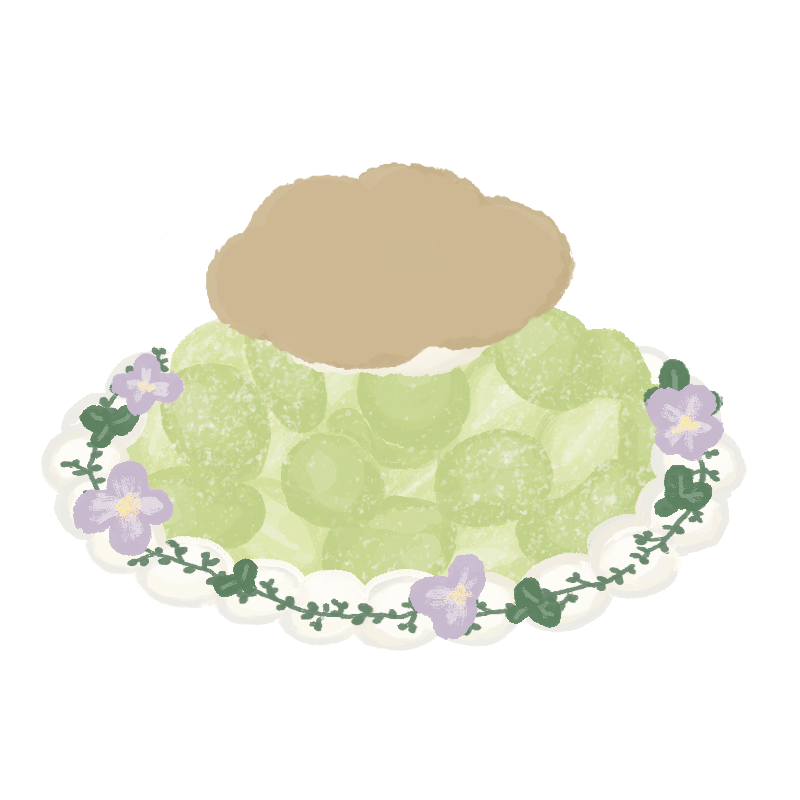
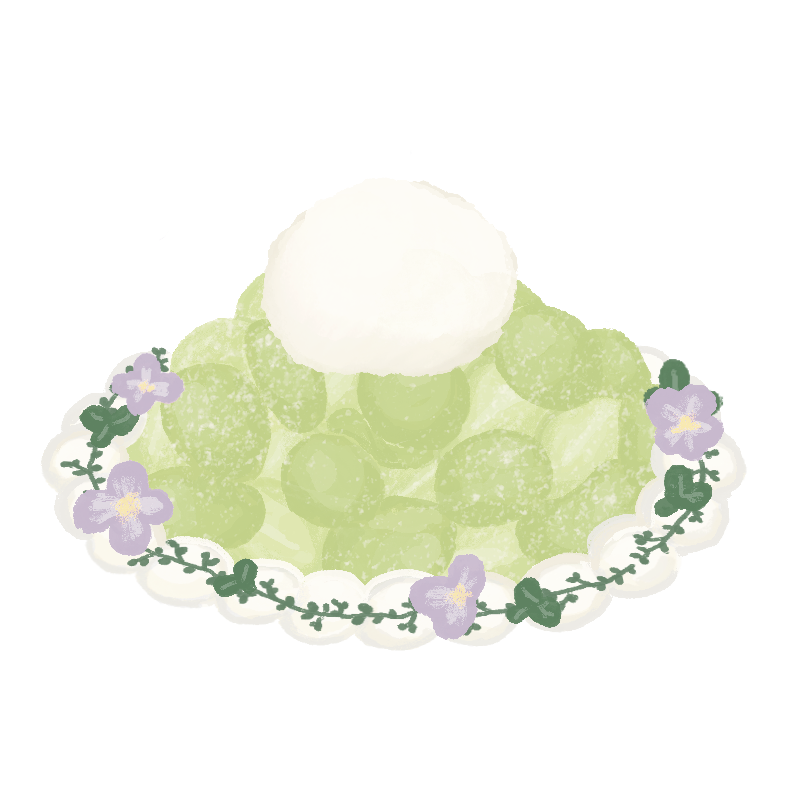
タルトの果物とメッセージプレートを反映

Changed region(s): [[0.25, 0.1875, 0.7188, 0.4688]]

diff --git a/help/start.html b/help/start.html
@@ -22,7 +22,7 @@
 <li>同意のチェックを入れます。</li>
 <li>**「カード登録なしで始める」**を押します。</li>
 </ol>
-<figure><a href="img/signup.png?v=1789736356dcb479" target="_blank" rel="noopener" aria-label="新規登録：お店の情報を入力する画面を拡大"><img src="img/signup.png?v=1789736356dcb479" alt="新規登録：お店の情報を入力する画面" loading="lazy" width="780" height="1688"></a><figcaption>新規登録：お店の情報を入力する画面 · タップで拡大</figcaption></figure>
+<figure><a href="img/signup.png?v=1789736567dcb479" target="_blank" rel="noopener" aria-label="新規登録：お店の情報を入力する画面を拡大"><img src="img/signup.png?v=1789736567dcb479" alt="新規登録：お店の情報を入力する画面" loading="lazy" width="780" height="1688"></a><figcaption>新規登録：お店の情報を入力する画面 · タップで拡大</figcaption></figure>
 <p>💡 店舗IDは予約ページのアドレスの一部です。後から管理画面で変更する機能はありません。</p>
 <h2 id="section-2">2. カード不要のお試しを始める<a class="anchor" href="#section-2" aria-label="この項目へのリンク">#</a></h2>
 <p>登録が完了すると管理画面へ進み、7日間のお試しが始まります。確認メールが届いた場合は、そのリンクから続けてください。</p>
@@ -30,7 +30,7 @@
 <h2 id="section-3">3. 管理画面の開き方を覚える<a class="anchor" href="#section-3" aria-label="この項目へのリンク">#</a></h2>
 <p><a href="../admin/">管理画面</a>をブックマークしておきます。次回からはメールアドレスとパスワードでログインします。</p>
 <p>スマホでメニューが見えない場合は、右上の **「☰」**を押します。</p>
-<figure><a href="img/menu.png?v=1789736356b3192b9032" target="_blank" rel="noopener" aria-label="スマホの管理メニュー：設定・商品・マニュアルへ進めますを拡大"><img src="img/menu.png?v=1789736356b3192b9032" alt="スマホの管理メニュー：設定・商品・マニュアルへ進めます" loading="lazy" width="780" height="1688"></a><figcaption>スマホの管理メニュー：設定・商品・マニュアルへ進めます · タップで拡大</figcaption></figure>
+<figure><a href="img/menu.png?v=1789736567b3192b9032" target="_blank" rel="noopener" aria-label="スマホの管理メニュー：設定・商品・マニュアルへ進めますを拡大"><img src="img/menu.png?v=1789736567b3192b9032" alt="スマホの管理メニュー：設定・商品・マニュアルへ進めます" loading="lazy" width="780" height="1688"></a><figcaption>スマホの管理メニュー：設定・商品・マニュアルへ進めます · タップで拡大</figcaption></figure>
 <h2 id="section-4">4. 予約を受けるルールを設定する<a class="anchor" href="#section-4" aria-label="この項目へのリンク">#</a></h2>
 <ol>
 <li>メニューの **「設定」**を開きます。</li>
@@ -48,7 +48,7 @@
 <li>「1時間ごと」など、時間の間隔を選びます。</li>
 <li>**「まとめて追加」**を押します。</li>
 </ol>
-<figure><a href="img/slots.png?v=1789736356f0519151" target="_blank" rel="noopener" aria-label="受取時間：時間の範囲を決めて枠を追加するを拡大"><img src="img/slots.png?v=1789736356f0519151" alt="受取時間：時間の範囲を決めて枠を追加する" loading="lazy" width="780" height="1688"></a><figcaption>受取時間：時間の範囲を決めて枠を追加する · タップで拡大</figcaption></figure>
+<figure><a href="img/slots.png?v=1789736567f0519151" target="_blank" rel="noopener" aria-label="受取時間：時間の範囲を決めて枠を追加するを拡大"><img src="img/slots.png?v=1789736567f0519151" alt="受取時間：時間の範囲を決めて枠を追加する" loading="lazy" width="780" height="1688"></a><figcaption>受取時間：時間の範囲を決めて枠を追加する · タップで拡大</figcaption></figure>
 <ol start="12">
 <li>**「お客様への案内とセルフ操作」**に、お店のキャンセルポリシーと特定商取引法に基づく表記を入れます。</li>
 <li>お客様ご自身での変更・キャンセルを使う場合は **「有効にする」**にチェックを入れます。</li>

diff --git a/help/products.html b/help/products.html
@@ -50,7 +50,7 @@
 <li><strong>この商品だけ受け付けない日</strong>：この商品だけ特定の日を休みたいときに日付を追加します。</li>
 </ul>
 <p>💡 定休日にクリスマス営業をしたい（12/24が定休日でも受け取れるようにしたい）場合は、設定ページの「臨時休業・臨時営業」で <strong>「定休日だけど営業」</strong> の日を登録してください（お店全体に効きます）。</p>
-<figure><a href="img/season.png?v=1789736356a0369fcec46" target="_blank" rel="noopener" aria-label="季節商品：受付期間と受取期間を分けて設定しますを拡大"><img src="img/season.png?v=1789736356a0369fcec46" alt="季節商品：受付期間と受取期間を分けて設定します" loading="lazy" width="780" height="1688"></a><figcaption>季節商品：受付期間と受取期間を分けて設定します · タップで拡大</figcaption></figure>
+<figure><a href="img/season.png?v=1789736567a0369fcec46" target="_blank" rel="noopener" aria-label="季節商品：受付期間と受取期間を分けて設定しますを拡大"><img src="img/season.png?v=1789736567a0369fcec46" alt="季節商品：受付期間と受取期間を分けて設定します" loading="lazy" width="780" height="1688"></a><figcaption>季節商品：受付期間と受取期間を分けて設定します · タップで拡大</figcaption></figure>
 <h2 id="section-5">サイズと価格<a class="anchor" href="#section-5" aria-label="この項目へのリンク">#</a></h2>
 <ol>
 <li>サイズ名（例：12cm、4号）と価格（税込）を入れて <strong>「追加」</strong> を押します。</li>
@@ -110,7 +110,7 @@
 <li>必要なら <strong>「必須にする」</strong> にチェックを入れます。</li>
 <li>補足（質問の下に小さく出る一言）は任意です。</li>
 </ol>
-<figure><a href="img/questions.png?v=1789736356e2362629e" target="_blank" rel="noopener" aria-label="共通の質問：質問文と回答のしかたを設定しますを拡大"><img src="img/questions.png?v=1789736356e2362629e" alt="共通の質問：質問文と回答のしかたを設定します" loading="lazy" width="780" height="1688"></a><figcaption>共通の質問：質問文と回答のしかたを設定します · タップで拡大</figcaption></figure>
+<figure><a href="img/questions.png?v=1789736567e2362629e" target="_blank" rel="noopener" aria-label="共通の質問：質問文と回答のしかたを設定しますを拡大"><img src="img/questions.png?v=1789736567e2362629e" alt="共通の質問：質問文と回答のしかたを設定します" loading="lazy" width="780" height="1688"></a><figcaption>共通の質問：質問文と回答のしかたを設定します · タップで拡大</figcaption></figure>
 <h3>見本の画像</h3>
 <p>質問の下に<strong>見本の画像を1枚</strong>出せます（任意）。**「見本の画像」→「写真を選ぶ」**でアップするだけです。</p>
 <ul>

diff --git a/help/faq.html b/help/faq.html
@@ -66,7 +66,7 @@
 <li>メールアプリ側で送信します。</li>
 </ol>
 <p><strong>「依頼内容を確認する」を押しただけでは送信されません。</strong> メールアプリが開かない場合は「本文をコピー」でコピーし、<a href="mailto:info@oyatsupokke.com">info@oyatsupokke.com</a>へ送信してください。ログインできない場合も、このアドレスからお問い合わせできます。</p>
-<figure><a href="img/support.png?v=1789736356c02707868" target="_blank" rel="noopener" aria-label="サポート：通常のお問い合わせ・不具合報告を選ぶを拡大"><img src="img/support.png?v=1789736356c02707868" alt="サポート：通常のお問い合わせ・不具合報告を選ぶ" loading="lazy" width="780" height="1688"></a><figcaption>サポート：通常のお問い合わせ・不具合報告を選ぶ · タップで拡大</figcaption></figure>
+<figure><a href="img/support.png?v=1789736567c02707868" target="_blank" rel="noopener" aria-label="サポート：通常のお問い合わせ・不具合報告を選ぶを拡大"><img src="img/support.png?v=1789736567c02707868" alt="サポート：通常のお問い合わせ・不具合報告を選ぶ" loading="lazy" width="780" height="1688"></a><figcaption>サポート：通常のお問い合わせ・不具合報告を選ぶ · タップで拡大</figcaption></figure>
 <p>画面写真を添える場合は、パスワードやお客様の名前・連絡先を隠してください。通常のお問い合わせの送信に料金はかかりません。有料の設定サポート・代行とは別に選べます。</p>
 </article><footer class="article-footer"><a href="index.html">目次へ戻る</a><a href="faq.html">困ったとき</a><a href="#content">ページの上へ ↑</a></footer></main>
 <aside class="on-this-page"><p>このページの内容</p><nav aria-label="このページの内容"><a href="#section-1">予約ページについて</a><a href="#section-2">メールについて</a><a href="#section-3">予約の操作について</a><a href="#section-4">ログインについて</a><a href="#section-5">印刷について</a><a href="#section-6">料金・解約について</a><a href="#section-7">解決しないとき</a></nav></aside></div><footer class="site-footer">画面写真はサンプル店舗の操作例です。<br><a href="../admin/index.html?tab=support">お問い合わせ</a> · <a href="../terms.html">利用規約</a> · <a href="../privacy.html">プライバシーポリシー</a></footer></body></html>

diff --git a/app.js b/app.js
@@ -578,7 +578,7 @@ const cakeLayerAsset = (name) => new URL(`assets/cake-layers/${name}`, location.
 // oyatsupokkeのタルト・バスクは、商品土台とは別に通常の果物レイヤーが常に付く。
 // 他店舗の商品名が同じでも混ざらないよう、店舗キーpokkeだけに限定する。
 const OYATSU_PRODUCT_EXTRA_LAYERS = {
-  // タルトの果物はプレート別版を受領後に追加する（2026-09-18 まりほ指示）。
+  "フルーツタルト": [{ file: "tart-fruit-muscat.png", z: 35 }],
   "バスクチーズケーキ": [{ file: "basque-fruit-muscat.png", z: 35 }],
 };
 const DEFAULT_PASTEL = { hue: 340, softness: 0 };
@@ -912,8 +912,10 @@ function currentLayers() {
       for (const o of selectedInGroup) {
         const name=optName(o);
         // サイド寄せの果物には1周ハーブではなく、同じ片側へ寄せた専用レイヤーを使う。
-        const layerUrl=CONFIG.shop==="pokke" && selectedNames.has("フルーツサイド寄せ") && HERB_TOPPING_NAMES.has(name)
-          ? cakeLayerAsset("fruit-side-herb.png") : o.layer_url;
+        const layerUrl=CONFIG.shop==="pokke" && p.name==="フルーツタルト" && name==="クッキープレート"
+          ? cakeLayerAsset("tart-message-plate.png")
+          :CONFIG.shop==="pokke" && selectedNames.has("フルーツサイド寄せ") && HERB_TOPPING_NAMES.has(name)
+            ? cakeLayerAsset("fruit-side-herb.png") : o.layer_url;
         if (layerUrl) {
           if(dogNumberCombo && name==="わんこホイップ絞り")continue;
           // カレンダーケーキのクッキープレートは別添え。注文には残し、ケーキ上には描かない。

diff --git a/help/customer.html b/help/customer.html
@@ -17,7 +17,7 @@
 <li><strong>お客様情報</strong> — 名前・フリガナ・電話・メール（ご住所を「表示する」にしているお店では、郵便番号を入れると住所が自動で入ります）</li>
 </ol>
 <p>最後に <strong>「入力内容を確認する」</strong> → 確認画面（キャンセルポリシーもここに表示）→ <strong>「この内容で注文する」</strong> で予約完了です。</p>
-<figure><a href="img/form.png?v=1789736356e01ca6ca1c" target="_blank" rel="noopener" aria-label="お客様の予約ページを拡大"><img src="img/form.png?v=1789736356e01ca6ca1c" alt="お客様の予約ページ" loading="lazy" width="780" height="1688"></a><figcaption>お客様の予約ページ · タップで拡大</figcaption></figure>
+<figure><a href="img/form.png?v=1789736567e01ca6ca1c" target="_blank" rel="noopener" aria-label="お客様の予約ページを拡大"><img src="img/form.png?v=1789736567e01ca6ca1c" alt="お客様の予約ページ" loading="lazy" width="780" height="1688"></a><figcaption>お客様の予約ページ · タップで拡大</figcaption></figure>
 <p>💡 入力の途中でページを閉じても、同じ端末・同じSafariやChromeでは、保存された入力内容から再開できます。添付画像は再選択が必要になる場合があります。共有端末では他の人の入力内容が残っていないか確認してください。</p>
 <h2 id="section-2">確認メール<a class="anchor" href="#section-2" aria-label="この項目へのリンク">#</a></h2>
 <p>予約が完了すると、お客様に自動で確認メールが届きます。</p>

diff --git a/help/overview.html b/help/overview.html
@@ -8,7 +8,7 @@
 <ol>
 <li>ケーキを選ぶ → 2. サイズを選ぶ → 3. カスタマイズ（フルーツなど） → 4. 受取日を選ぶ → 5. ご記入欄 → 6. お客様情報 → 内容の確認 → 注文</li>
 </ol>
-<figure><a href="img/form.png?v=1789736356e01ca6ca1c" target="_blank" rel="noopener" aria-label="お客様の予約ページ：商品・サイズを選びますを拡大"><img src="img/form.png?v=1789736356e01ca6ca1c" alt="お客様の予約ページ：商品・サイズを選びます" loading="lazy" width="780" height="1688"></a><figcaption>お客様の予約ページ：商品・サイズを選びます · タップで拡大</figcaption></figure>
+<figure><a href="img/form.png?v=1789736567e01ca6ca1c" target="_blank" rel="noopener" aria-label="お客様の予約ページ：商品・サイズを選びますを拡大"><img src="img/form.png?v=1789736567e01ca6ca1c" alt="お客様の予約ページ：商品・サイズを選びます" loading="lazy" width="780" height="1688"></a><figcaption>お客様の予約ページ：商品・サイズを選びます · タップで拡大</figcaption></figure>
 <ul>
 <li>受取日のカレンダーでは、<strong>予約できる日だけ</strong>を選べます（定休日・締切を過ぎた日・満枠の日は自動で選べなくなります）</li>
 <li>注文するとお客様に<strong>確認メール</strong>が自動で届きます。メールの専用リンクから、お客様がご自身で変更・キャンセルもできます（期限はお店が決められます。<a href="customer.html">第5章</a>）</li>

diff --git a/admin/index.html b/admin/index.html
@@ -4,10 +4,10 @@
 <meta charset="UTF-8">
 <meta name="viewport" content="width=device-width, initial-scale=1.0">
 <title>管理画面｜オーダーケーキ予約</title>
-<link rel="stylesheet" href="../styles.css?v=1789736356">
-<link rel="stylesheet" href="admin.css?v=1789736356">
-<link rel="stylesheet" href="admin-layout.css?v=1789736356">
-<link rel="stylesheet" href="support.css?v=1789736356">
+<link rel="stylesheet" href="../styles.css?v=1789736567">
+<link rel="stylesheet" href="admin.css?v=1789736567">
+<link rel="stylesheet" href="admin-layout.css?v=1789736567">
+<link rel="stylesheet" href="support.css?v=1789736567">
 </head>
 <body>
 <div id="app" class="admin">
@@ -452,12 +452,12 @@
 
   <div id="toast" class="toast hidden"></div>
 </div>
-<script src="tips.js?v=1789736356"></script>
-<script src="edit-drafts.js?v=1789736356"></script>
-<script src="report-core.js?v=1789736356"></script>
-<script src="line-settings.js?v=1789736356"></script>
-<script src="admin.js?v=1789736356"></script>
-<script src="reports.js?v=1789736356"></script>
-<script src="support.js?v=1789736356"></script>
+<script src="tips.js?v=1789736567"></script>
+<script src="edit-drafts.js?v=1789736567"></script>
+<script src="report-core.js?v=1789736567"></script>
+<script src="line-settings.js?v=1789736567"></script>
+<script src="admin.js?v=1789736567"></script>
+<script src="reports.js?v=1789736567"></script>
+<script src="support.js?v=1789736567"></script>
 </body>
 </html>

diff --git a/help/billing.html b/help/billing.html
@@ -11,7 +11,7 @@
 <li>契約状況と無料期間の終了日を確認します。</li>
 <li>カード変更や解約をする場合は **「お支払い管理をひらく」**を押します。Stripeのお支払い管理ページが開きます。</li>
 </ol>
-<figure><a href="img/billing.png?v=1789736356b666af21f00" target="_blank" rel="noopener" aria-label="ご契約・お支払い：契約状況と管理ページへの入口を拡大"><img src="img/billing.png?v=1789736356b666af21f00" alt="ご契約・お支払い：契約状況と管理ページへの入口" loading="lazy" width="780" height="1688"></a><figcaption>ご契約・お支払い：契約状況と管理ページへの入口 · タップで拡大</figcaption></figure>
+<figure><a href="img/billing.png?v=1789736567b666af21f00" target="_blank" rel="noopener" aria-label="ご契約・お支払い：契約状況と管理ページへの入口を拡大"><img src="img/billing.png?v=1789736567b666af21f00" alt="ご契約・お支払い：契約状況と管理ページへの入口" loading="lazy" width="780" height="1688"></a><figcaption>ご契約・お支払い：契約状況と管理ページへの入口 · タップで拡大</figcaption></figure>
 <h2 id="section-2">料金と無料期間<a class="anchor" href="#section-2" aria-label="この項目へのリンク">#</a></h2>
 <ul>
 <li>基本利用料は **月額4,980円（税込）**です。</li>

diff --git a/admin/products.html b/admin/products.html
@@ -4,10 +4,10 @@
 <meta charset="UTF-8">
 <meta name="viewport" content="width=device-width, initial-scale=1.0">
 <title>商品の設定｜管理画面</title>
-<link rel="stylesheet" href="../styles.css?v=1789736356">
-<link rel="stylesheet" href="admin.css?v=1789736356">
-<link rel="stylesheet" href="products.css?v=1789736356">
-<link rel="stylesheet" href="admin-layout.css?v=1789736356">
+<link rel="stylesheet" href="../styles.css?v=1789736567">
+<link rel="stylesheet" href="admin.css?v=1789736567">
+<link rel="stylesheet" href="products.css?v=1789736567">
+<link rel="stylesheet" href="admin-layout.css?v=1789736567">
 </head>
 <body>
 <div id="app" class="admin products-page">
@@ -216,10 +216,10 @@
   <button id="fab" type="button">プレビュー</button>
   <div id="toast" class="toast hidden"></div>
 </div>
-<script src="tips.js?v=1789736356"></script>
-<script src="edit-drafts.js?v=1789736356"></script>
-<script src="products-menu.js?v=1789736356"></script>
-<script src="pickup-schedule.js?v=1789736356"></script>
-<script src="products.js?v=1789736356"></script>
+<script src="tips.js?v=1789736567"></script>
+<script src="edit-drafts.js?v=1789736567"></script>
+<script src="products-menu.js?v=1789736567"></script>
+<script src="pickup-schedule.js?v=1789736567"></script>
+<script src="products.js?v=1789736567"></script>
 </body>
 </html>

diff --git a/help/settings.html b/help/settings.html
@@ -52,7 +52,7 @@
 <li>枠ごとに<strong>上限台数</strong>を入れられます。空欄の枠は台数無制限です。
 例）12時台はお店が混むので2台まで</li>
 </ul>
-<figure><a href="img/slots.png?v=1789736356f0519151" target="_blank" rel="noopener" aria-label="受取時間の設定を拡大"><img src="img/slots.png?v=1789736356f0519151" alt="受取時間の設定" loading="lazy" width="780" height="1688"></a><figcaption>受取時間の設定 · タップで拡大</figcaption></figure>
+<figure><a href="img/slots.png?v=1789736567f0519151" target="_blank" rel="noopener" aria-label="受取時間の設定を拡大"><img src="img/slots.png?v=1789736567f0519151" alt="受取時間の設定" loading="lazy" width="780" height="1688"></a><figcaption>受取時間の設定 · タップで拡大</figcaption></figure>
 <h2 id="section-6">臨時休業・臨時営業<a class="anchor" href="#section-6" aria-label="この項目へのリンク">#</a></h2>
 <ul>
 <li><strong>臨時休業</strong>：営業日だけれど予約を受けない日。日付を選んで追加します。</li>

diff --git a/index.html b/index.html
@@ -6,8 +6,8 @@
 <title>オーダーケーキのご予約</title>
 <link rel="preconnect" href="https://fonts.googleapis.com">
 <link rel="stylesheet" href="https://fonts.googleapis.com/css2?family=Zen+Kaku+Gothic+New:wght@400;500;700&family=Zen+Maru+Gothic:wght@500;700&family=Shippori+Mincho:wght@500;700&display=swap">
-<link rel="stylesheet" href="styles.css?v=1789736356">
-<link rel="stylesheet" href="form-layout.css?v=1789736356">
+<link rel="stylesheet" href="styles.css?v=1789736567">
+<link rel="stylesheet" href="form-layout.css?v=1789736567">
 </head>
 <body>
 <div id="app">
@@ -151,9 +151,9 @@
   <div id="toast" class="toast hidden"></div>
 
 </div>
-<script src="safe-display.js?v=1789736356"></script>
-<script src="booking-retry.js?v=1789736356"></script>
-<script src="app.js?v=1789736356"></script>
-<script src="form-layout.js?v=1789736356"></script>
+<script src="safe-display.js?v=1789736567"></script>
+<script src="booking-retry.js?v=1789736567"></script>
+<script src="app.js?v=1789736567"></script>
+<script src="form-layout.js?v=1789736567"></script>
 </body>
 </html>

diff --git a/manage.html b/manage.html
@@ -5,7 +5,7 @@
 <meta name="viewport" content="width=device-width, initial-scale=1.0">
 <meta name="robots" content="noindex">
 <title>ご予約の確認・変更・キャンセル</title>
-<link rel="stylesheet" href="styles.css?v=1789736356">
+<link rel="stylesheet" href="styles.css?v=1789736567">
 <style>
   /* このページ専用の少しだけの追加スタイル */
   .status-chip { display: inline-block; padding: 2px 10px; border-radius: 999px; font-size: 12px; font-weight: 600; background: #f2e8dc; color: #7a5c3d; vertical-align: middle; margin-left: 8px; }
@@ -107,7 +107,7 @@
 
   <div id="toast" class="toast hidden"></div>
 </div>
-<script src="safe-display.js?v=1789736356"></script>
-<script src="manage.js?v=1789736356"></script>
+<script src="safe-display.js?v=1789736567"></script>
+<script src="manage.js?v=1789736567"></script>
 </body>
 </html>
